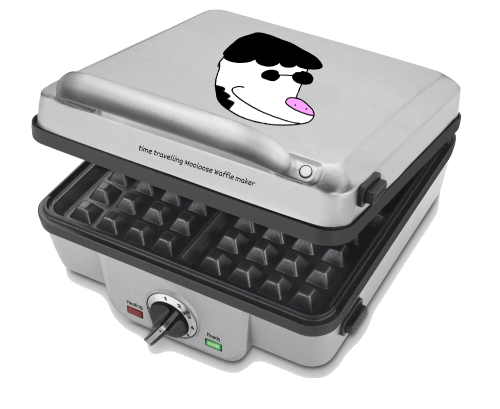
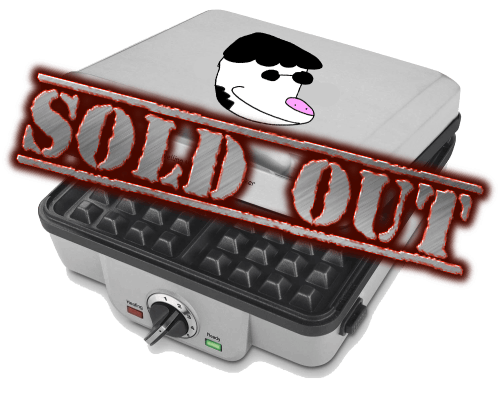
added 3d model store

Changed region(s): [[0.0, 0.1467, 0.99, 0.7042]]

diff --git a/Shop.html b/Shop.html
@@ -5,6 +5,10 @@
   <source src="Moosic/MoogerShop.mp3" type="audio/mp3">
   Your browser does not support the audio element.
   </audio>
+  <audio id="nope">
+  <source src="Moosic/incorrect.swf.mp3" type="audio/mpeg">
+  Your browser does not support the audio element.
+</audio>
     <style>
 
 body {
@@ -19,7 +23,7 @@ body {
           <marquee>THE STORE</marquee>
       </font>
       <br>
-    (This isn't a Real store)
+    (This store does not include transactions donations or any form of official currency needed)
     <br> <a href="index.html">Go Back</a> <a href="gAME.html">Games</a> <a href="SignUp.html">Log in</a>
     <hr>
 <center>
@@ -29,61 +33,25 @@ body {
 </audio>
 
 </script>
- 
+
 <br>
 </center>
-<audio id="myAudio">
-  <source src="Moosic/cash-register-kaching-sound-effe.mp3" type="audio/mpeg">
-</audio>
-
-<button onclick="playAudio()" type="button">Buy Product</button>
- 
-
+<br><img src="Particular pictures/WMMooloose.png" alt="SOLD OUT!" width="250" height="180">
+desc: DISCONTINUED BECAUSE IT EXPLODED XD
+<br><button onclick="playAudio()" type="button">Buy</button>
 <script>
-var x = document.getElementById("myAudio"); 
-
+var x = document.getElementById("nope"); 
 function playAudio() { 
   x.play(); 
 } 
-
 function pauseAudio() { 
   x.pause(); 
 } 
 </script>
 <br>
-<img src="Particular pictures/WMMooloose.png" alt="soundcloud" width="200" height="150">
-Desc:The TimeTraveling waffle maker
-<br>Price:$2000 (+Jet refueling fees +$20)
 <br>
-</audio>
-
-</script>
- 
-<br>
-</center>
-<audio id="myAudio">
-  <source src="Moosic/cash-register-kaching-sound-effe.mp3" type="audio/mpeg">
-</audio>
-
-<button onclick="playAudio()" type="button">Buy Product</button>
- 
-
-<script>
-var x = document.getElementById("myAudio"); 
-
-function playAudio() { 
-  x.play(); 
-} 
-
-function pauseAudio() { 
-  x.pause(); 
-} 
-</script>
-<br>
-<img src="Particular pictures/101_0224.JPG" alt="soundcloud" width="150" height="150">
-Desc:Yes the Hoodie is Real !? but no i would not give to you
-<br>Price:$17.99 (Actual Price $45)
-<br>
+<br><font size="6"> <a href="Other Pages/MoolooseModel.html">3D MOOGER MODEL </font>
+<br><img src="Particular pictures/FrontMooger.png" width="240" height="200"></a>
 <br>
 <br><a href="Other Stuff/Evilmoo-1 - Join.mp4" download="flashMoopeek">
   <img src="Particular pictures/foppy.png" alt="floppydisk.png" width="104" height="132">

diff --git a/Other Pages/MoolooseModel.html b/Other Pages/MoolooseModel.html
@@ -1,0 +1,52 @@
+<head>
+    <audio autoplay loop>
+  <source src="Moosic/MoogerShop.mp3" type="audio/mp3">
+  Your browser does not support the audio element.
+  </audio>
+    <title>MOOGER MODEL</title>
+        <style>
+
+body {
+  background-image: url('../Stars.gif');
+}
+
+
+    </style>
+    
+</head>
+<body>
+    
+        <br> <a href="../Shop.html">Go Back</a> <a href="../Index">Main Page</a> <a href="../Videos.html">Videos</a>
+    <hr>
+    <br>
+
+<img src="../MoogerSpinThing.gif" width="500" height="400">
+<br>  
+<td align="left" valign="top">
+    <p style="color: white">
+<br>NO RIG
+<br>49,566 Triangles
+<br>25,665 Vertices
+<br>Mooger Accurate
+<br>~~~~~~~~~~~~~~~~~~~~~~
+<br>
+<br>Note:
+<br>Idk how to make low poly models so just settle
+<br>your GPU 4 this!!! SORRY
+<a href="../Other Stuff/MoogerAllSideCompat.glb" download="MoogerModel.glb">
+<hr><font size="5"><button style="width: 200px; height: 34px;">DOWNLOAD</button> </a>  
+<br><a href="https://files.catbox.moe/7gm7it.glb">CATBOX DOWNLOAD LINK</a></font>
+
+
+    <p style="color: white">
+        SUBCRIBE TO OUR VIDLII ACCOUNT TO SUPPORT US!!
+    <br>
+    <iframe src="https://www.vidlii.com/user/MoolooseOfficial" title="Follow Mooloose!" height="220" width="360"></iframe>
+    <br>dont have an account? 
+    <a href="https://www.vidlii.com/register">SIGN UP FOR VIDLII!!!!</a></p>
+<br>
+
+</p>
+</td>
+</tbody></table>
+</body>

diff --git a/index.html b/index.html
@@ -46,6 +46,7 @@ body {
     <br> <a href="https://mooloose77.newgrounds.com/">NEWGROUNDS</a>
     <br><a href="   https://www.vidlii.com/user/MoolooseOfficial">Vidlii</a>
     <br><a href="https://www.mediafire.com/folder/h8hpq31enhtty/WebAlbum">DOWNLOAD ALBUM</a>
+    <br><a href="https://nucomicz.neocities.org/">NUCOMICZ (SUPPORTED WEBSITE)</a>
     <br></p></a>
 
 
@@ -113,20 +114,11 @@ body {
 </tbody></table>
       </center>
       <br>
-  <a href="Article.html" style="color: yellow;">
-        <font size="70">Current News</font>
-<br>
-              <embed type="" src="Article.html" width="450" height="450"> </embed>
 <br>
 
-  </p>
-      </a>
-    </a>
-    <br>
-    <b>
-          </div>
-      </button>
-  
+              <embed type="" src="Article.html" width="450" height="450"> </embed>
+              
+<br>
 <a href="Particular pictures/Screenshot 2025-07-26 125321.png" download="3DMooloose.png">
   <img src="Other Stuff/Mooloosespoin.gif" alt="Spinning Logo" width="200" height="200">
 </a>
@@ -137,6 +129,15 @@ body {
     <br><font size="6"><a href="https://turbowarp.org/1235541367 ">LINK</a></font>
 <br>Become Mooger In REAL TIME !?
 <br>
+  </p>
+      </a>
+    </a>
+    <br>
+    <b>
+          </div>
+      </button>
+  
+
 
 
 <!--~~~~~~~~~~~~~~~~~~~~~~~~~~~~~~~~~~~~~~~~~~~~~~~~~~~~~~~~~~~~~~~-->

diff --git a/Article.html b/Article.html
@@ -132,4 +132,13 @@
     <br> so mooloose 5 EVER!
     <br><img src="epik2fgif.gif" width="300" height="250" alt="epik2fgif">
     <br>epic 2 frame gif above
+    <hr>
+        <marquee><font size="50">SHOP UPDATE</font></marquee>
+    <br>
+    <hr> MAY 10 2026
+    <br> <a href="Shop.html">The Shop</a> will now be a REAL
+    <br> PLACE to get free items with light subscriptions DONT WORRY THO
+    <br> we just need you to subscribe to my Vidlii account or sm idk what I 
+    <br> will do :/
+    <br> But you can now get your very own Mooger model
 </body>